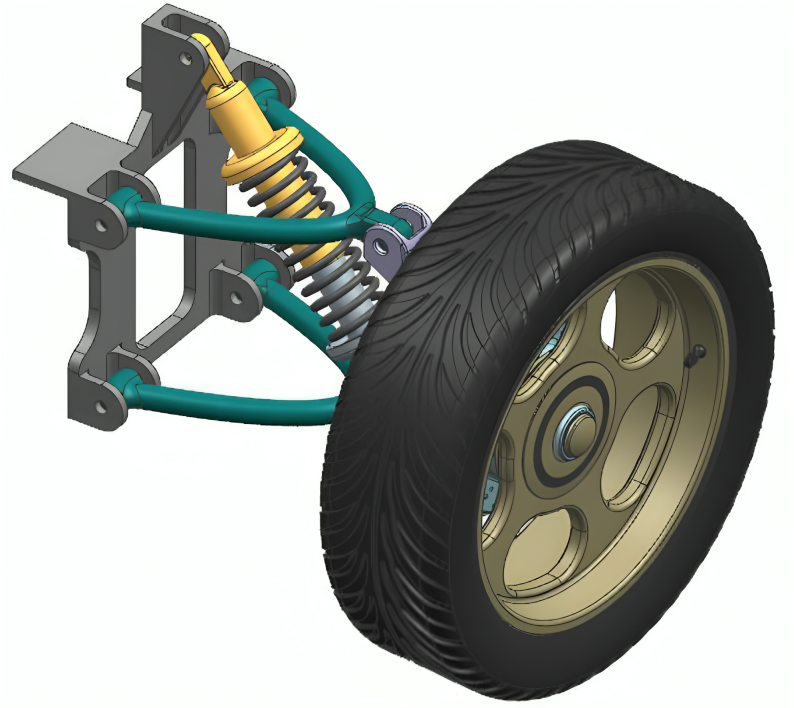
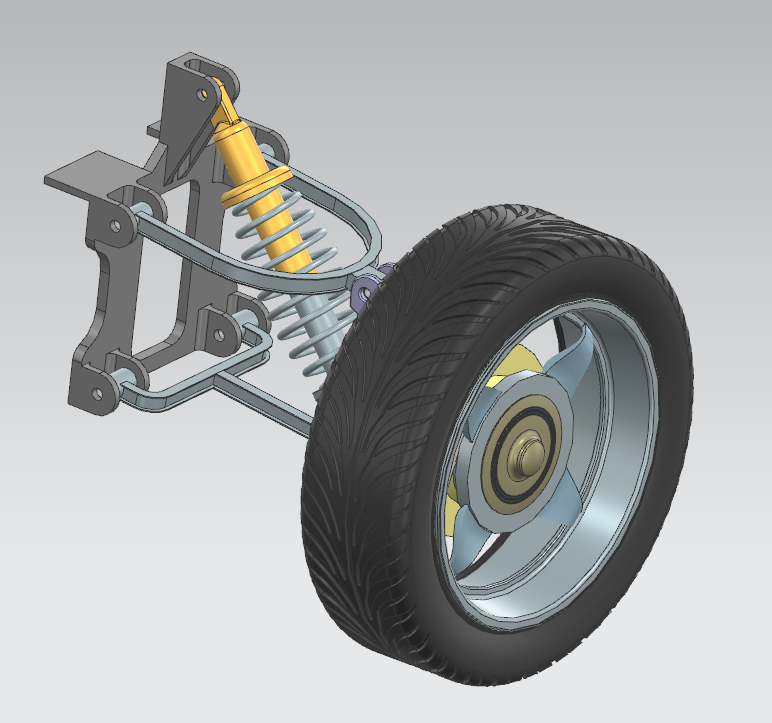
Mise à jour du site

diff --git a/index.html b/index.html
@@ -54,7 +54,7 @@
     <section class="footer-section">
         <p class="location">Saint-Ouen-Sur-Seine, France</p>
         <p class="copyright">© Copyright FOURNIER Thomas. All Rights Reserved</p>
-        <a class="linkedin-link" href="https://www.linkedin.com/in/thomas-fournier-28489a2b6/" target="_blank" rel="noopener noreferrer">
+        <a class="linkedin-link" href="https://fr.linkedin.com" target="_blank" rel="noopener noreferrer">
             <img src="image/Linkedin.png" alt="LinkedIn">
         </a>
     </section>

diff --git a/aboutme.html b/aboutme.html
@@ -40,7 +40,7 @@
         <div class="aboutme-container">
 
             <img src="image/Fond_Fullsize_blur.png" alt="" class="aboutme-background-image">
-            <img src="image/Photo profil.jpg" alt="Thomas Fournier" class="aboutme-image">
+            <img src="image/Photo_profil.jpeg" alt="Thomas Fournier" class="aboutme-image">
         </div>
         <div class="aboutme-content">
             <h1 class="aboutme-title">Student in Mechanical Engineering</h1>
